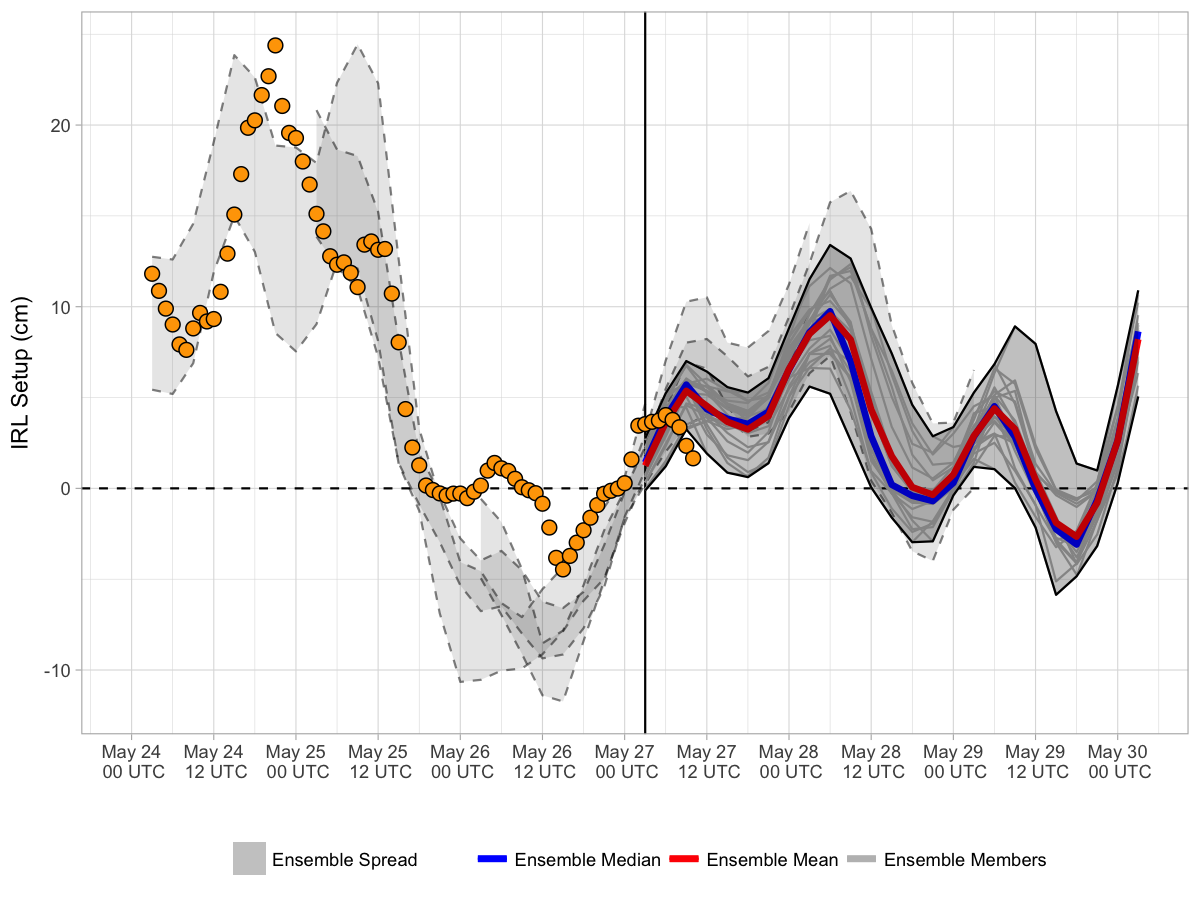
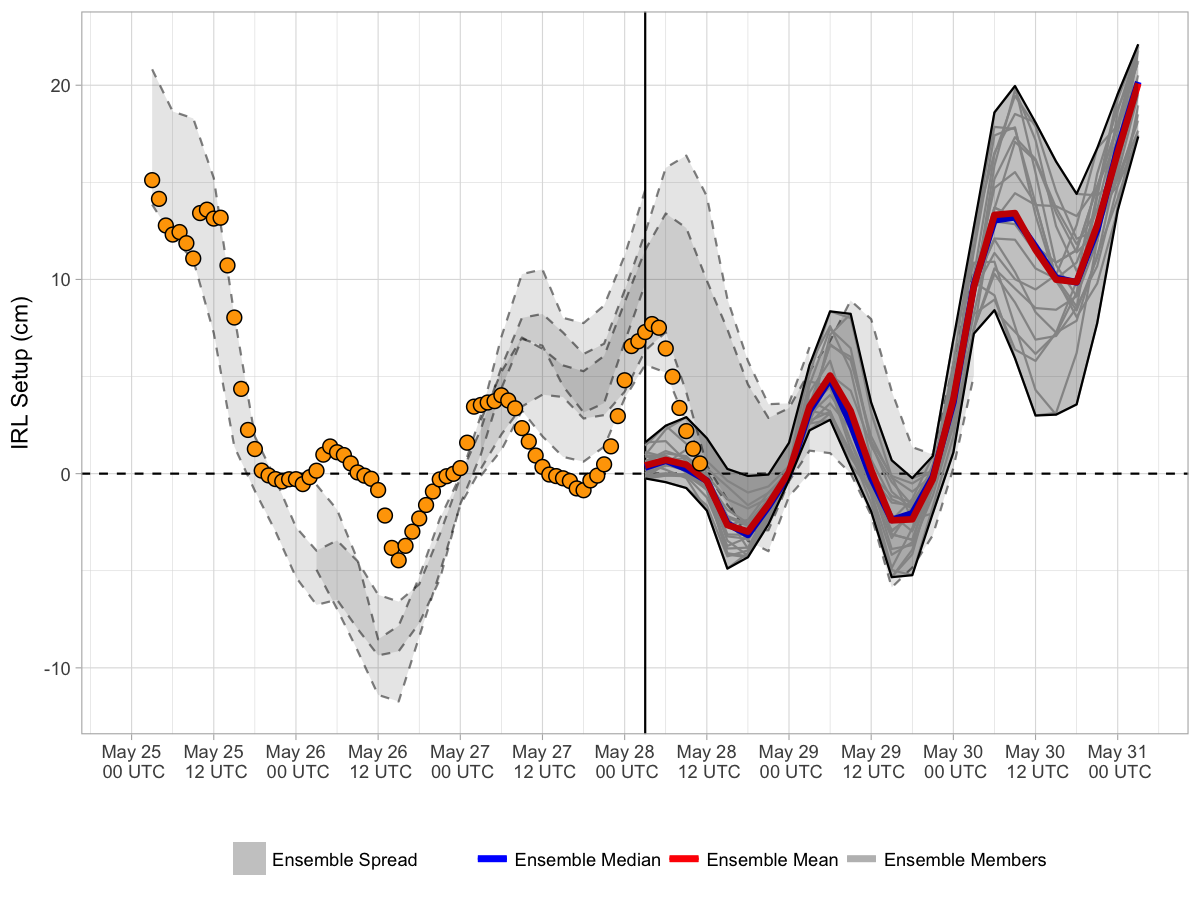
20170528 forecast update

Changed region(s): [[0.1233, 0.0311, 0.9558, 0.7778], [0.0308, 0.3111, 0.0617, 0.3422], [0.0308, 0.1244, 0.0617, 0.1556]]

diff --git a/docs/index.md b/docs/index.md
@@ -3,7 +3,7 @@ Current Forecast
 
 [![](img/raw_setup.png)](https://bhlmn.github.io/IRLSetup/img/raw_setup.png)
 
-> Forecast valid 2017-05-27 07:09:39.
+> Forecast valid 2017-05-28 07:24:36.
 
 Explanation
 -----------
@@ -15,7 +15,7 @@ water elevation in the northern IRL (near Titusville), and negative
 setup indicates the increase elevation in the southern IRL (near
 Sebastian). The x-axis displays the date and time in UTC. The solid
 vertical line represents the beginning of the most recent ensemble
-forecast (currently 2017-05-26 18:00:00). For this most recent forecast,
+forecast (currently 2017-05-27 18:00:00). For this most recent forecast,
 the ensemble spread (grey shading) is bound by solid black lines, with
 individual members represented by faint grey lines. The ensemble mean
 and median for this are represented by the red and blue curves,
